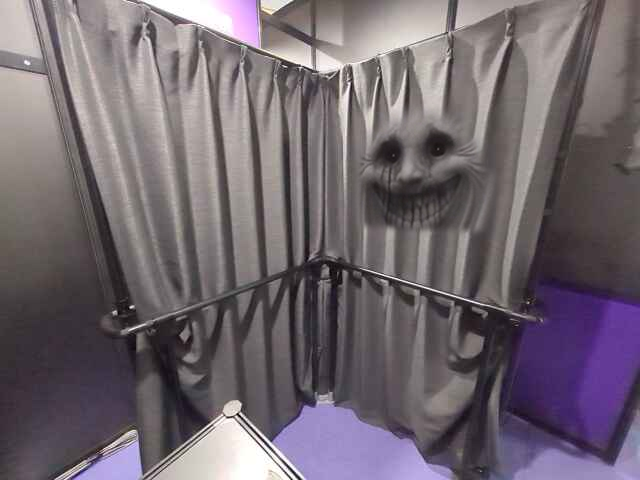
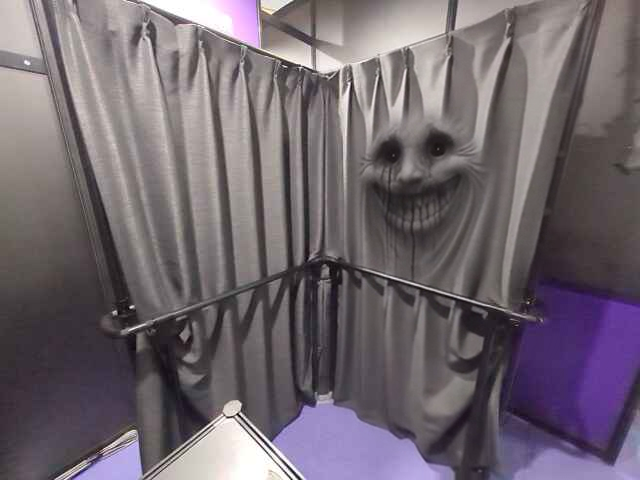
fix：2-A 右の幕で人形が CG に替わるとき、顔の下と膨らんだ布が消えて一部だけ残るのを直す
- 会場の版（Flow で生成し直した動画）では、段 4 の顔だけの画が顎から下・垂れ・膨らんだ布を落としていた（顔の箱と差の拾い方が前の動画の位置のまま）
- build_flow_right.py に版ごとの dollBox を足し、段 4 は段 2 の合成範囲から覗く人形の箱だけを抜く形にした。会場の版を (486,266,640,480) で組み直した
- CG の人形の出る床の点を版ごとの dollFrom にし、会場の版は画の人形の足元 (0.435, 0.83) にした（前の動画の (0.44, 0.62) のままだった）
- NOW.md の 2-A と README を合わせた

diff --git a/tools/gen-plate/stain3/build_flow_right.py b/tools/gen-plate/stain3/build_flow_right.py
@@ -21,7 +21,7 @@
           生の映像に掛けるので、幕の前を通る体は消えない）
   pop     元 2.0〜2.9 秒を 3 倍・2.9〜4.0 秒を 1.6 倍・4.0〜5.2 秒を等速。最後のコマを 3 枚足す。段 2
   watch   pop の最後のコマ（顔と覗く人形）。段 3
-  face    pop の最後のコマの顔だけ（手すりより上）。段 4 の CG の人形がついてくる間
+  face    pop の最後のコマから覗く人形だけを抜いた画（POINTER の dollBox。無い版は顔だけ）。段 4 の CG の人形がついてくる間
 
 素材の名前は写真の名前から付ける（stain_A_right_flow_*_<写真の日時>.*）。いま台本が使う版は
 static-inputs/stain_A_right_flow.json（POINTER）が持ち、tools/show-apply-stain-right.py と卓の「合わせ直す」が読む。
@@ -84,7 +84,12 @@ def source_of(version: dict) -> dict:
     def path(key, default):
         return ROOT / src[key] if isinstance(src.get(key), str) and src[key] else default
     return {"video": path("video", SRC), "base": path("base", BASE_PLATE), "end": path("end", END_FRAME),
-            "stainAt": float(src.get("stainAt", STAIN_AT))}
+            "stainAt": float(src.get("stainAt", STAIN_AT)),
+            "dollBox": tuple(int(v) for v in src["dollBox"]) if isinstance(src.get("dollBox"), list)
+            and len(src["dollBox"]) == 4 else None,
+            # 画の人形が立つ床の点（x, z）。CG の人形はここから出る（tools/show-apply-stain-right.py が読む）
+            "dollFrom": [float(v) for v in src["dollFrom"]] if isinstance(src.get("dollFrom"), list)
+            and len(src["dollFrom"]) == 2 else None}
 
 
 def crop_flow(raw: Path, out: Path) -> Path:
@@ -108,6 +113,10 @@ HOLD_FRAMES = 3
 RIGHT_BOX = (280, 0, W, H)          # Flow が変えてよい所（右の幕と、その縁の裏の人形）。左の幕は使わない
 RAIL = rb.SETS["real"]["rail"]
 FACE_BOX = (280, 0, 522, 245)     # 顔としみ（手すりの右端の支柱より左）。人形と右の支柱を入れない
+# 段 4 で消す人形の箱（動画を作った写真の 640x480 の画素）。POINTER の source.dollBox。動画ごとに人形の位置が違う。
+# 箱があれば段 4 は「段 2 の合成範囲から人形の箱を抜いた所」を最後のコマのまま残す（顔も垂れも膨らんだ布も残り、
+# 人形だけが CG に替わる）。無ければ従来どおり、顔の変わった所だけを FACE_BOX の中で拾う。
+# 従来の拾い方は、会場 11-17 の版で顔の顎から下と垂れと膨らんだ布を落とし、段 3 → 4 で画の一部だけが消えた
 
 
 def read_frames(path: Path) -> np.ndarray:
@@ -167,6 +176,9 @@ def main() -> int:
     ap.add_argument("--flow-inputs", action="store_true", help="生成し直すときの首尾フレーム（16:9）を書いて終わる")
     ap.add_argument("--from-flow", default=None,
                     help="生成し直した Flow の動画（16:9）。4:3 を切り出して flow/ に置き、--plate の写真を動画を作った写真として組む")
+    ap.add_argument("--doll-box", default=None,
+                    help="段 4 で消す覗く人形の箱 x0,y0,x1,y1（動画を作った写真の 640x480 の画素）。"
+                         "人形が全部入り、顔と膨らんだ布がなるべく入らない箱")
     ap.add_argument("--stain-at", type=float, default=None,
                     help="しみが出きってまだ膨らんでいないコマの秒（生成し直した動画で変わる。段 2 の区切りも同じだけずらす）")
     a = ap.parse_args()
@@ -186,10 +198,13 @@ def main() -> int:
         inputs = WORK / f"flow_inputs_{tag}"
         end = inputs / "end.png"
         source = {"video": crop_flow(Path(a.from_flow), HERE / f"flow/flow_{tag}_4x3.mp4"), "base": plate_path,
-                  "end": end if end.exists() else source["end"], "stainAt": source["stainAt"]}
+                  "end": end if end.exists() else source["end"], "stainAt": source["stainAt"],
+                  "dollBox": source["dollBox"], "dollFrom": source["dollFrom"]}
         print(f"生成し直した動画: {source['video'].relative_to(ROOT).as_posix()}")
     if a.stain_at is not None:
         source["stainAt"] = a.stain_at
+    if a.doll_box:
+        source["dollBox"] = tuple(int(v) for v in a.doll_box.split(","))
     stain_at = source["stainAt"]
     rest = [(s0 - STAIN_AT + stain_at, s1 - STAIN_AT + stain_at, sp) for s0, s1, sp in REST]
     print(f"組む動画: {source['video'].relative_to(ROOT).as_posix()}（動画を作った写真 {source['base'].name}・しみ {stain_at}s）")
@@ -274,10 +289,13 @@ def main() -> int:
     ratio = np.clip(rb.lin(Fs) / np.maximum(rb.lin(F0), 1e-3), 0, 1)
     ratio = np.ones_like(ratio) * (1 - ms[..., None]) + ratio * ms[..., None]
 
-    # 段 4 の顔だけ: 最後のコマの、手すりより上
+    # 段 4: 最後のコマから人形だけを抜く（人形の箱が無い版は、顔の変わった所を手すりより上で拾う）
     last = pop[-1]
-    mf = rb.soft_mask(last, F0, (0, 0, W, H), 0.03, 0.08, close=6) * box * above
-    mf = rb.blur(rb.grow(mf, 4), 3) * face_box
+    if source["dollBox"]:
+        mf = region * (1 - base_mask(rb.box_mask(source["dollBox"], 4)))
+    else:
+        mf = rb.soft_mask(last, F0, (0, 0, W, H), 0.03, 0.08, close=6) * box * above
+        mf = rb.blur(rb.grow(mf, 4), 3) * face_box
 
     def comp(f, m):
         return np.clip(plate * (1 - m[..., None]) + f * m[..., None], 0, 255).astype(np.uint8)
@@ -313,9 +331,12 @@ def main() -> int:
     (out / NAMES["meta"]).write_text(json.dumps(meta, ensure_ascii=False, indent=2), encoding="utf-8")
     if not a.dry:
         tmp_p = POINTER.with_suffix(".json.tmp")
-        rel = {k: Path(v).resolve().relative_to(ROOT).as_posix() for k, v in source.items() if k != "stainAt"}
+        rel = {k: Path(v).resolve().relative_to(ROOT).as_posix() for k, v in source.items()
+               if k not in ("stainAt", "dollBox", "dollFrom")}
         tmp_p.write_text(json.dumps({"tag": tag, "plate": plate_path.name, "durationSec": meta["durationSec"],
-                                     "names": NAMES, "source": {**rel, "stainAt": stain_at}},
+                                     "names": NAMES, "source": {**rel, "stainAt": stain_at,
+                                                **({"dollBox": list(source["dollBox"])} if source["dollBox"] else {}),
+                                                **({"dollFrom": source["dollFrom"]} if source["dollFrom"] else {})}},
                                     ensure_ascii=False, indent=2), encoding="utf-8")
         os.replace(tmp_p, POINTER)
     print(json.dumps(meta, ensure_ascii=False))

diff --git a/tools/show-apply-stain-right.py b/tools/show-apply-stain-right.py
@@ -7,7 +7,7 @@
         体がもっと左（s2a_leftend）に届くか、報告の長押しを始めたら次へ（markStartAdvance）
   段 2  しみが笑う顔（0389 の案 1）に膨らみ、右の幕の縁から人形が覗く。動画生成（Flow）を緩急を付けて詰めた版。笑い声が 1 回
   段 3  顔と覗く人形の最後のコマで止まる。壁の端を回る（s2a_walk）と次へ
-  段 4  乱れで CG の人形に替わる。幕には顔だけが残る。人形は幕の裏の同じ所から出て、歩いた跡をついてくる。区間を出て EXIT_HOLD_SEC 秒まで
+  段 4  乱れで CG の人形に替わる。幕には顔と膨らんだ布が残り、覗く人形だけが消える。人形は幕の裏の同じ所から出て、歩いた跡をついてくる。区間を出て EXIT_HOLD_SEC 秒まで
 
 区間 B へ出ても EXIT_HOLD_SEC 秒は畳まずにカメラ A の画を持つ（take の exitHoldSec）。右のシミの線から区間の出口までは
 0.6〜0.7m しか無く、歩き続ける人は線から約 2.7 秒で出る。そのままでは段 2 の途中で切れて段 3・4 が見えない。
@@ -51,11 +51,16 @@ DOLL_FROM = (0.44, 0.62)
 FLOW_POINTER = STATIC / "stain_A_right_flow.json"
 
 
-def flow_names() -> dict:
-    return json.loads(FLOW_POINTER.read_text(encoding="utf-8"))["names"]
+def flow_version() -> dict:
+    return json.loads(FLOW_POINTER.read_text(encoding="utf-8"))
 
 
-FLOW = flow_names()
+FLOW = flow_version()["names"]
+# 版ごとに画の人形の立つ所が違う（動画を生成し直すと人形の位置が変わる）。版に dollFrom があればそれを使う。
+# 会場 11-17 の版は (0.435, 0.83)。人形の足元の画素 (505, 462) をカメラ A の校正（2026-11-17 16:45）で床へ戻した
+_from = flow_version().get("source", {}).get("dollFrom")
+if isinstance(_from, list) and len(_from) == 2:
+    DOLL_FROM = (float(_from[0]), float(_from[1]))
 
 # 側待ち（untilBeyond）は線分を無限の直線へ延ばして側を見るので、端点は向きと卓の表示を決めるだけ。
 # 区間 A の歩きは C 側の (0.75, 0.45) あたりから入り、壁沿いに (-0.26, 0.26) → (-0.26, -0.5) → 壁の端を回って

diff --git a/.claude/canon/NOW.md b/.claude/canon/NOW.md
@@ -67,7 +67,7 @@
 | 1-A | （なし） | 演出なし。ライブだけ。区間は録画されるが、現台本でこの録画を流すカットは無い | 0050b（演出の流れ・2026-08-15）。録画を使わないのは未判定（シュビーの実装判断） |
 | 1-B | `L1C1#0` | 入った時点で、B の壁一面に血の手形がもう付いている（滲んで増えていかない）。区間を出るまで残る。手形はライブの画を暗くする形で出るので、壁の前に立つ体は消えず、体の上にも手形の暗さが薄く乗る。報告すると乱れとともに消える | 0384, 0050b（演出の流れ）, 0114, 0141, 0179, 0082, 0349。掛け算は未判定（シュビーの実装判断）。実機と HMD は未確認 |
 | 1-C | （なし） | 演出なし。ライブだけ | 0050b（演出の流れ） |
-| 2-A | `L2C0#0` | 入って少しすると、左の幕へ顔のシミが目と口の濃い所から滲んで広がり、広がり切ると息をするようにわずかに濃淡が揺れる。シミはライブの画を暗くする形で出るので、幕の前に立つ体は消えない。長押ししてもシミは膨らまない。ここで報告すると、乱れとともに左のシミだけが消え、演出は続く。消した後にもう一度報告しても何も起きない。左の幕の前を通り過ぎ、体が右の幕の顔の膨らむ所に重ならない所（線 `s2a_rightstain`・壁沿いで z=-0.53）まで来ると、何も無かった右の幕に黒い顔のしみが 0.25 秒のディゾルブで出る（左のシミが残っていれば左も残る）。しみはライブの画を暗くする形で出る。さらに 0.12m 先（線 `s2a_leftend`）に届くか、報告の長押しを始めると、しみが一気に膨らんで、耳まで裂けて笑う丸い目の顔が布ごと手前へせり出し、目と口から黒い筋が垂れる。同時に右の幕の縁から背丈 80cm の市松人形が覗き、笑い声が 1 回（2.4 秒）鳴る。顔は 0.3 秒で出きり、人形は約 1 秒で顔と着物まで見える（動画生成の動画を緩急を付けて詰めた 2.29 秒）。最後のコマで止まり、笑う顔と覗く人形がそのまま残る。少なくとも 0.6 秒見せたあと、壁の端を回る所（線 `s2a_walk`）で、乱れとともに画の人形が CG の人形（同じ 80cm）に替わり、幕の裏の同じ所から歩いた跡の上を 1 歩ぶんずつ飛び飛びに寄ってくる。幕の笑う顔は残る。区間 B へ出てもすぐには B の画へ戻らず、出てから 3.5 秒まではカメラ A の画のまま続く。止まらずに歩き続けると右のシミが出てから約 2.7 秒で区間を出るが、その後も顔が膨らみ人形が覗く動画は最後まで流れ、覗いたまま止まった人形が 0.6 秒、CG の人形が右の幕の縁から出て体験者の出ていった方へ寄ってくるのが約 2.2 秒見える（ツインの通し）。3.5 秒が尽きると B の画へ戻り、2-B の演出が始まる。区間を出る前に引き返して C へ戻ったときは、すぐ畳まれる。右のしみが出た後に報告が成立すると、顔が膨らみ人形が覗く動画を必ず最後まで流してから、乱れとともに左右のシミも人形も消えてライブへ戻り、人形はもうついてこない。しみだけの間に成立したら、先の線を待たずにその場で膨らむ動画へ進む。長押しを始めて顔が膨らむ所に入り、そのまま押し切った場合も同じ。止まった画・CG がついてくる間（区間を出た後の 3.5 秒の間も）に報告すると、すぐ乱れとともに消える。この報告をすると 2-B の演出は出ない。区間 A で立ち止まっていても、右の幕は最後まで出る。左のシミを消した後、右のしみが出る前に引き返して C へ戻ると、次に A へ入ったとき演出は頭から出直す（左のシミも出る） | 0396, 0391, 0390, 0389, 0381, 0379, 0378, 0377, 0376, 0330, 0349, 0086, 0135。右の幕のしみ・顔・人形は動画生成の試作 C（0389 で採用）を本編の段へ割ったもの。展示会場では、会場の写真で生成し直しユーザーが確かめた動画（0396）を同じ段へ割っている。段への割り方（ディゾルブを段 1 の 0.25 秒に・最後のコマで止めて人形は身を引かない・CG の間も顔を残す）は未判定（シュビーの実装判断・`OPEN.md`「2-A 右の幕を動画生成の版で本編へ」）。線の位置（膨らむ顔に重ならない境目の傾き・壁沿いの余裕 3cm・その先 0.12m・壁の端の x=-0.42）・右のしみが出きるまで 0.25 秒は待つこと・左の端を待つ上限 20 秒と左のシミのカットの上限 40 秒・左のシミを消すときの乱れ・笑い声の切り出し 2.4 秒・見ている人形を最短 0.6 秒見せること・CG の 1 歩 0.45m と 0.55 秒・跡の 0.9m 後ろ・2-B を演出ごと出さないこと・区間を出た後も 3.5 秒 A の画を持つことは未判定（シュビーの実装判断・`OPEN.md`）。報告しても膨らむ動画を見せ切ることと立ち止まっても最後まで出すことは 0391。しみだけの間の報告で線を待たずに進むこと・左のシミを消した後の引き返しで頭から出直すことは未判定（シュビーの実装判断・`OPEN.md`「2-A の右の幕を全員に見せる」）。実機と HMD は未確認 |
+| 2-A | `L2C0#0` | 入って少しすると、左の幕へ顔のシミが目と口の濃い所から滲んで広がり、広がり切ると息をするようにわずかに濃淡が揺れる。シミはライブの画を暗くする形で出るので、幕の前に立つ体は消えない。長押ししてもシミは膨らまない。ここで報告すると、乱れとともに左のシミだけが消え、演出は続く。消した後にもう一度報告しても何も起きない。左の幕の前を通り過ぎ、体が右の幕の顔の膨らむ所に重ならない所（線 `s2a_rightstain`・壁沿いで z=-0.53）まで来ると、何も無かった右の幕に黒い顔のしみが 0.25 秒のディゾルブで出る（左のシミが残っていれば左も残る）。しみはライブの画を暗くする形で出る。さらに 0.12m 先（線 `s2a_leftend`）に届くか、報告の長押しを始めると、しみが一気に膨らんで、耳まで裂けて笑う丸い目の顔が布ごと手前へせり出し、目と口から黒い筋が垂れる。同時に右の幕の縁から背丈 80cm の市松人形が覗き、笑い声が 1 回（2.4 秒）鳴る。顔は 0.3 秒で出きり、人形は約 1 秒で顔と着物まで見える（動画生成の動画を緩急を付けて詰めた 2.29 秒）。最後のコマで止まり、笑う顔と覗く人形がそのまま残る。少なくとも 0.6 秒見せたあと、壁の端を回る所（線 `s2a_walk`）で、乱れとともに画の人形が CG の人形（同じ 80cm）に替わり、幕の裏の同じ所から歩いた跡の上を 1 歩ぶんずつ飛び飛びに寄ってくる。幕の笑う顔と垂れと膨らんだ布は残り、覗いていた人形だけが消える（CG の人形は画の人形の足元から出る）。区間 B へ出てもすぐには B の画へ戻らず、出てから 3.5 秒まではカメラ A の画のまま続く。止まらずに歩き続けると右のシミが出てから約 2.7 秒で区間を出るが、その後も顔が膨らみ人形が覗く動画は最後まで流れ、覗いたまま止まった人形が 0.6 秒、CG の人形が右の幕の縁から出て体験者の出ていった方へ寄ってくるのが約 2.2 秒見える（ツインの通し）。3.5 秒が尽きると B の画へ戻り、2-B の演出が始まる。区間を出る前に引き返して C へ戻ったときは、すぐ畳まれる。右のしみが出た後に報告が成立すると、顔が膨らみ人形が覗く動画を必ず最後まで流してから、乱れとともに左右のシミも人形も消えてライブへ戻り、人形はもうついてこない。しみだけの間に成立したら、先の線を待たずにその場で膨らむ動画へ進む。長押しを始めて顔が膨らむ所に入り、そのまま押し切った場合も同じ。止まった画・CG がついてくる間（区間を出た後の 3.5 秒の間も）に報告すると、すぐ乱れとともに消える。この報告をすると 2-B の演出は出ない。区間 A で立ち止まっていても、右の幕は最後まで出る。左のシミを消した後、右のしみが出る前に引き返して C へ戻ると、次に A へ入ったとき演出は頭から出直す（左のシミも出る） | 0396, 0391, 0390, 0389, 0381, 0379, 0378, 0377, 0376, 0330, 0349, 0086, 0135。右の幕のしみ・顔・人形は動画生成の試作 C（0389 で採用）を本編の段へ割ったもの。展示会場では、会場の写真で生成し直しユーザーが確かめた動画（0396）を同じ段へ割っている。段への割り方（ディゾルブを段 1 の 0.25 秒に・最後のコマで止めて人形は身を引かない・CG の間も顔を残す）は未判定（シュビーの実装判断・`OPEN.md`「2-A 右の幕を動画生成の版で本編へ」）。線の位置（膨らむ顔に重ならない境目の傾き・壁沿いの余裕 3cm・その先 0.12m・壁の端の x=-0.42）・右のしみが出きるまで 0.25 秒は待つこと・左の端を待つ上限 20 秒と左のシミのカットの上限 40 秒・左のシミを消すときの乱れ・笑い声の切り出し 2.4 秒・見ている人形を最短 0.6 秒見せること・CG の 1 歩 0.45m と 0.55 秒・跡の 0.9m 後ろ・2-B を演出ごと出さないこと・区間を出た後も 3.5 秒 A の画を持つことは未判定（シュビーの実装判断・`OPEN.md`）。報告しても膨らむ動画を見せ切ることと立ち止まっても最後まで出すことは 0391。しみだけの間の報告で線を待たずに進むこと・左のシミを消した後の引き返しで頭から出直すことは未判定（シュビーの実装判断・`OPEN.md`「2-A の右の幕を全員に見せる」）。実機と HMD は未確認 |
 | 2-B | `L2C1#0` | 入ると（2-A の人形を見せ切る間は、入ってから最大 3.5 秒遅れて）、小さい人形（0.4m）が体験者の歩いた跡の上を、後ろ姿で寄ってくる（床置きのカメラに全身が入る。1 歩 0.25m ずつ）。体験者が線 `trail_B_reach`（通路の 6 割）の向こう側へ出ると、乱れと切替音で画面ごと古い子供部屋へ飛ぶ。誰もいない部屋で、天井の電灯と木馬がひとりでに揺れて止まり、上から市松人形が身体ごと畳に落ちて、首だけが回ってこちらを向く（5.9s）。落ちた人形がこちらを見ている最後のコマで 1.6s 止まり（post 素通し）、乱れで B のライブへ戻る。子供部屋の動画のあいだ、動画の音（電灯と木馬の揺れ・人形が畳に落ちる鈍い音）が風の上に鳴る。人形が落ちる前（動画の 4.2s より前）に報告の長押しを始めると、押した瞬間の画から人形が落ちる所の画へ 0.4s で重なって移り、音も落ちる所から鳴り直す。押さずに歩き続けても、2-C との境の線 `kids_B_fall`（z=0.45）の向こう側へ出た時点で人形が落ちる前なら、押したときと同じく落ちる所へ移る。子供部屋の動画か最後のコマで報告が成立しても、最後のコマが終わるまで見せ切ってから乱れでライブへ戻る。人形が後ろを付いて来る所で報告すると、乱れが 1 回出て人形だけが消え、B のライブのまま演出は続く。そのまま線 `trail_B_reach` の向こう側へ出れば、報告しなかったときと同じく子供部屋へ飛ぶ。人形を消した後に子供部屋で報告すると、別の異変として数える。区間を出ると畳まれる。2-A で人形が出た後に報告していたら、この演出は丸ごと出ず、B はライブのまま | 0382, 0378, 0347, 0122, 0133, 0141, 0082, 0355, 0374, 0375, 0380。人形を消すときの乱れ 1 回と、人形を消した後の子供部屋の報告を別の異変に数えることは未判定（シュビーの実装判断）。人形の道のり 0.8m 後ろ・届く線の位置・尺・警告つき切替音は未判定（シュビーの実装判断）。報告しても最後のコマまで畳まないこと・落ちる所を 4.2s に置いたことは未判定（シュビーの実装判断・`OPEN.md`「2-B の報告は人形を見せ切ってから畳む」）。2-A の報告で子供部屋の動画まで含めて出さないことは未判定（シュビーの実装判断）。落ちる所の線の位置（2-C との境）と、線を越えた事象ではなく向こう側に居る状態で見ることは未判定（シュビーの実装判断・`OPEN.md`「2-B の落ちる所の線の位置」）。実機と HMD は未確認 |
 | 2-C | `L2C2#0` | 入った瞬間に低い人形視点の遠景が 0.9s 割り込み、切替音が鳴る。続く 0.6s は C のライブ。報告では消えない | 0101, 0102, 0107。報告不可は未判定（シュビーの実装判断） |
 | 2-C | `L2C2#1` | 線 `chase_C_1` を越えたときだけ出る。乱れで人形視点が 1 本（0.6s・人形の予備動作）入り、C のライブへ戻る。止まっていると次は来ない。線 `chase_C_2` の向こう側へ出ると、乱れで人形視点に入り、ライブへ戻らずに 3 本を切りで続けて流す（0.6s・0.6s・1.4s）。3 本目で白衣の背中に追いつき、切替音と「あーそぼー」が鳴る。続いて乱れで C のライブに戻り、劇伴が 3s で LostPlace2 へ替わって以後戻らない。乗っ取りの面が消えるまで主画面は砂嵐、その後は心音の波紋とビネットと、部屋全体が伸び縮みして傾く空間の歪み。歪みは砂嵐の下で立ち上がり、人形化の暗転まで続く。画は 18% 拡大される。区間を出ると畳まれる。報告では消えない。人形視点が 1 カットでも出た後に 3-A へ入った場合は、3-A の頭で乗っ取りが起きる。「あーそぼー」がまだならその縁で 1 回鳴り、劇伴も同じ縁で替わる | 0384, 0347（C は画を見せておらず未判定。`OPEN.md`）, 0101, 0102, 0104, 0107, 0109, 0119, 0145, 0175, 0244, 0245, 0251, 0313, 0314。歪みの方式・始まりと終わりは未判定。yield と報告不可は未判定（シュビーの実装判断）。人形視点の途中で 3-A へ入った人の乗っ取りは未判定（シュビーの実装判断・2026-11-11 のツイン通しの所見と、その採否の委任。0245 の因果を速く歩く人にも通すため） |

diff --git a/tools/gen-plate/stain3/README.md b/tools/gen-plate/stain3/README.md
@@ -9,7 +9,7 @@
 | 1 右のしみ | 0 の後、その 0.12m 先（線 `s2a_leftend`）に届くか、報告の長押しを始めるまで（step の `markStartAdvance`） | 何も無い右の幕に顔のしみが 0.25 秒のディゾルブで出る（step の `fadeInSec`）。左のしみが残っていれば残る | `cue_stain_A_right_hold`（掛け算）＋ 2 枚目の層 `cue_stain_A_left_hold` |
 | 2 膨らんで覗く | 1 の後 | しみが案 1 の笑う顔に膨らみ、右の幕の縁から人形が覗く（2.29 秒の動画）。笑い声 1 回 | `stain_A_right_burst`（動画）＋ 2 枚目の層 |
 | 3 止め | 2 の動画が終わってから、壁の端を回る（線 `s2a_walk`）まで | 最後のコマで止まる。顔と覗く人形 | `stain_A_right_watch` ＋ 2 枚目の層 |
-| 4 ついてくる | 3 の後、区間を出て 3.5 秒まで（区間を出てもこの秒まではカメラ A の画のまま。take の `exitHoldSec`） | 乱れで CG の人形（0.8m）に替わり、幕の裏の同じ所から歩いた跡をついてくる。幕には顔だけが残る | `cue_stain_A_right_face` ＋ 2 枚目の層 ＋ CG `doll_mid`（trail） |
+| 4 ついてくる | 3 の後、区間を出て 3.5 秒まで（区間を出てもこの秒まではカメラ A の画のまま。take の `exitHoldSec`） | 乱れで CG の人形（0.8m）に替わり、幕の裏の同じ所から歩いた跡をついてくる。幕には顔と垂れと膨らんだ布が残り、覗く人形だけが消える（版の `dollBox` で抜く。CG の出る所は版の `dollFrom`） | `cue_stain_A_right_face` ＋ 2 枚目の層 ＋ CG `doll_mid`（trail） |
 
 段 0 で左のしみを消していれば、以後の段の 2 枚目の層は出ない。段 1 の報告は押し始めで段 2 へ進み、押し切ると段 2 で畳まれる。
 段 2〜4 の報告は演出ごと畳む（左右のしみも人形も消える）。そのとき 2 周目 B の演出 `L2C1#0` は出ない（take の `skipIfDismissed`）。
